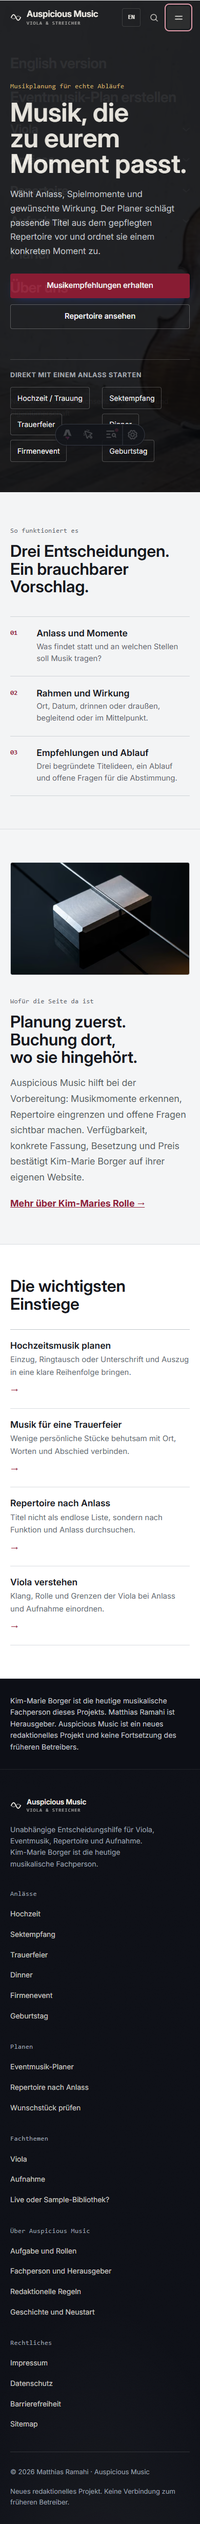
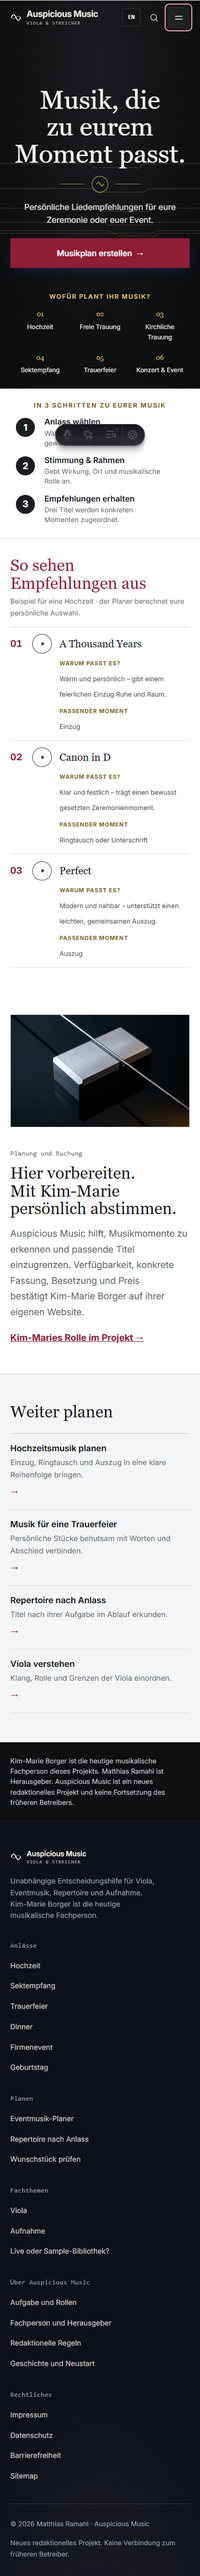
feat: align planner with music concept

Changed region(s): [[0.0, 0.0, 1.0, 0.9955], [0.7692, 0.56, 0.8, 0.5911], [0.2769, 0.9644, 0.3077, 0.9955]]

diff --git a/src/data/repertoire.ts b/src/data/repertoire.ts
@@ -6,6 +6,9 @@ export interface RepertoirePiece {
   moments?: number[];
 }
 
+export const youtubeSearchUrl = (title: string) =>
+  `https://www.youtube.com/results?search_query=${encodeURIComponent(`${title} Viola`)}`;
+
 export interface OccasionMoment {
   de: string;
   en: string;
